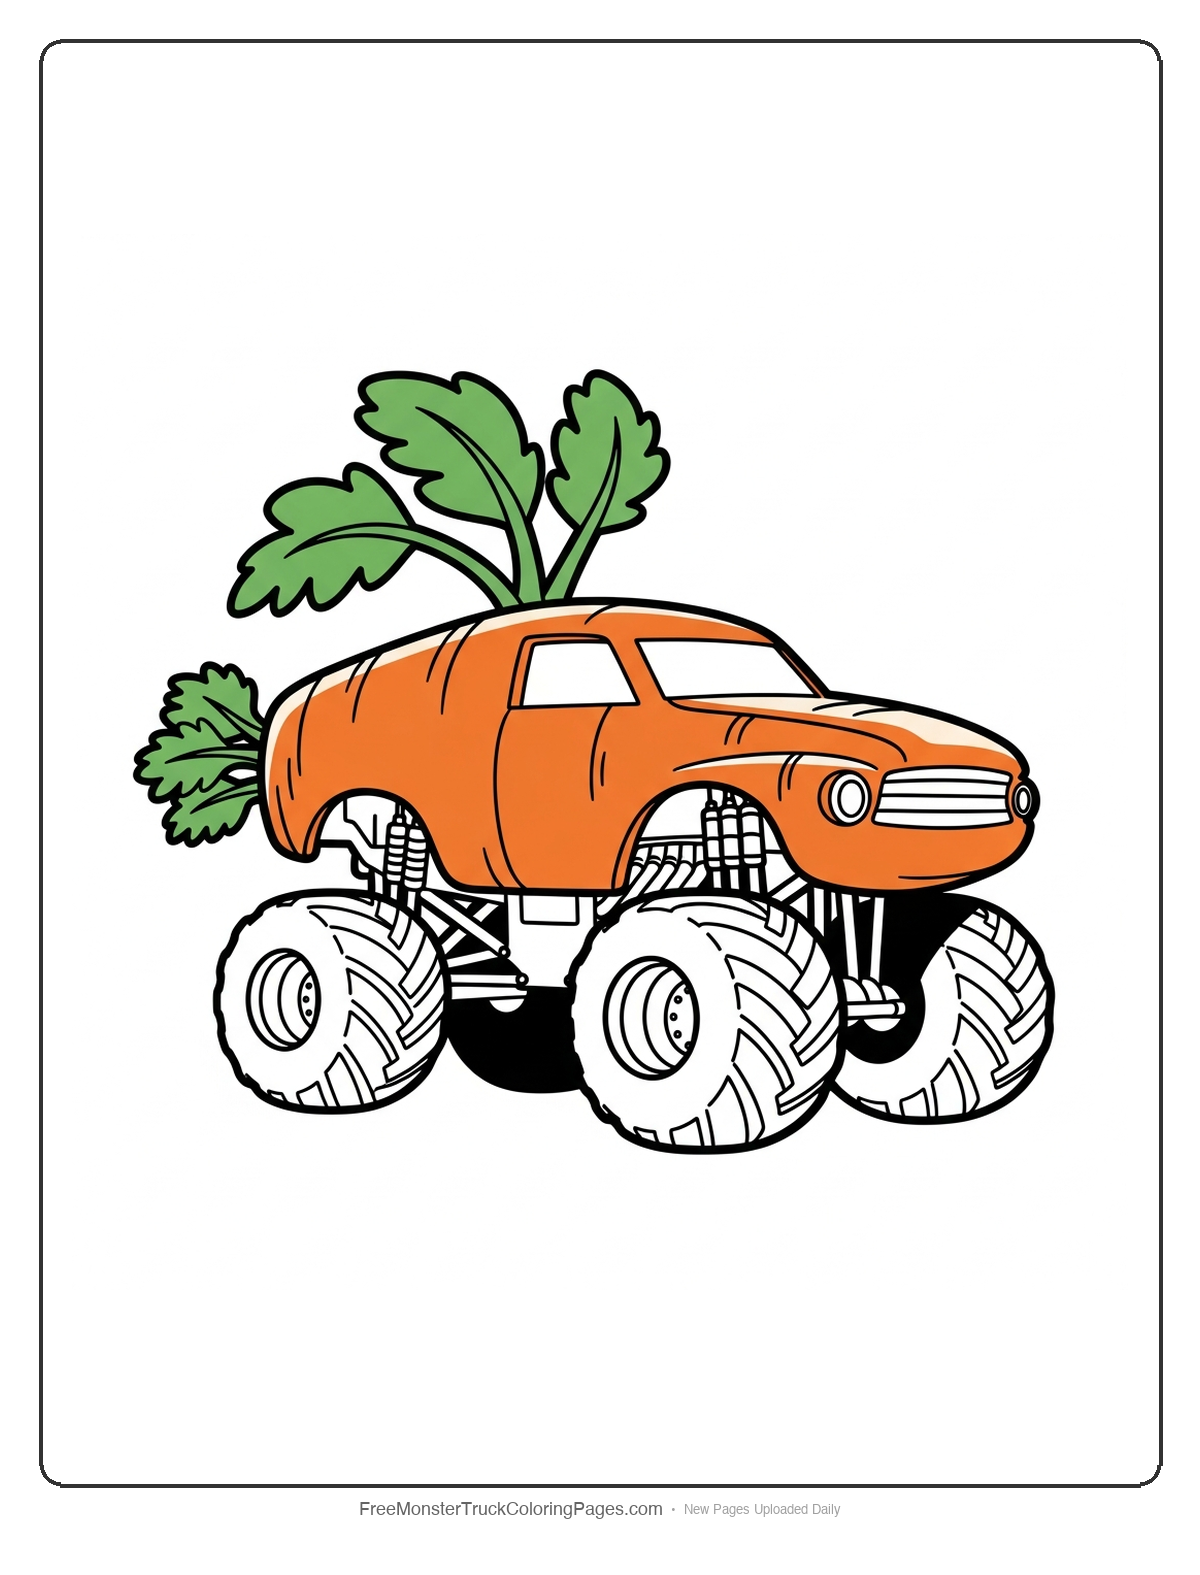
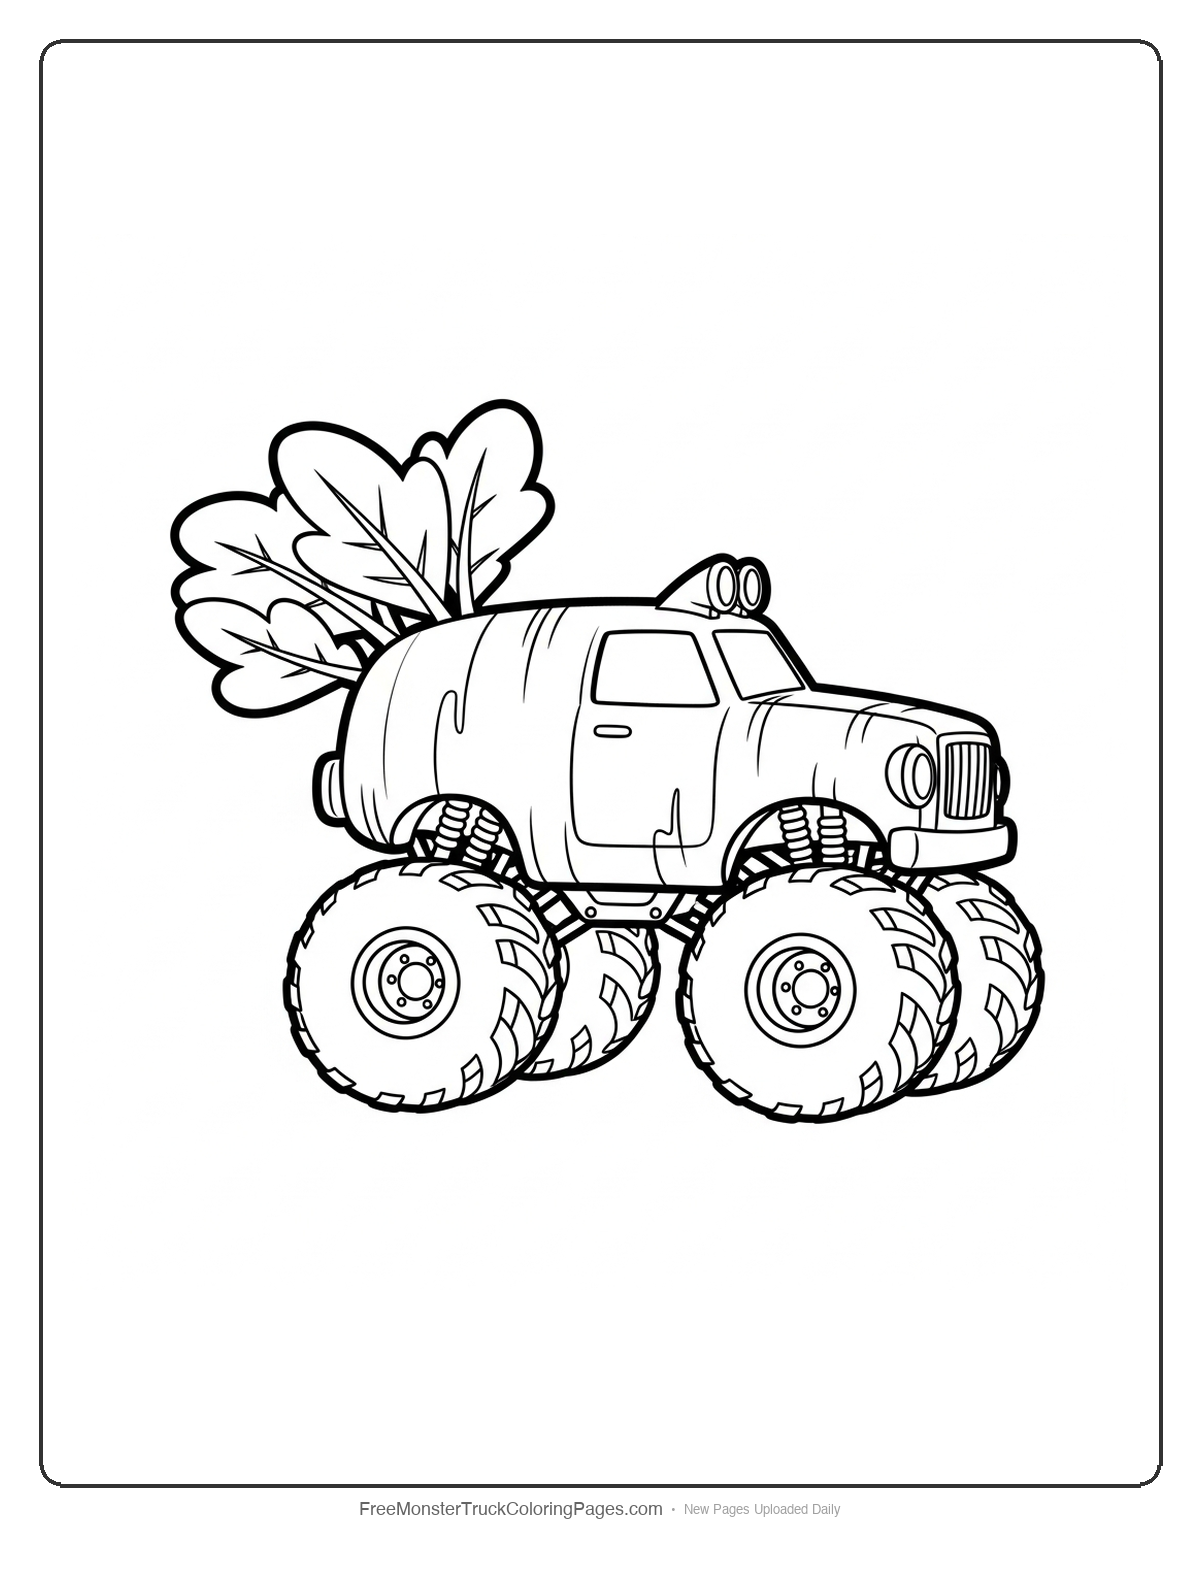
Add color detection QC check, fix colored carrot cruncher image
New QC layer: check-color.py detects if image has color fills.
- Measures pixel saturation across the image
- Fails if >2% of pixels have color (saturation > 30)
- Integrated into autopilot QC loop: color = regenerate
- Updated Imagen base prompt: "NO COLOR, NO colored fills, strictly black outlines"
- Regenerated carrot cruncher as proper B&W line art

Changed region(s): [[0.0925, 0.2178, 0.8942, 0.7467]]

diff --git a/src/lib/autopilot.ts b/src/lib/autopilot.ts
@@ -281,7 +281,7 @@ function getUpcomingHolidays(now: Date): string {
 // =====================================================
 
 const BASE_IMAGEN_PROMPT =
-  "Black and white line art, coloring book style for young children ages 2-8, bold thick clean outlines only, simple shapes, NO shading, NO gray fill, NO complex backgrounds, NO crowds, NO tiny details, NO text in image, white background. The complete subject should be fully visible in the image.";
+  "Black and white line art ONLY, coloring book style for young children ages 2-8, bold thick clean outlines only, simple shapes, NO COLOR, NO shading, NO gray fill, NO colored fills, strictly black outlines on white background, NO complex backgrounds, NO crowds, NO tiny details, NO text in image. The complete subject should be fully visible in the image.";
 
 async function generateImage(prompt: string): Promise<Buffer> {
   const fullPrompt = `${prompt} ${BASE_IMAGEN_PROMPT}`;
@@ -376,6 +376,21 @@ function applyFrame(imagePath: string) {
     });
   } catch (err) {
     console.log(`[autopilot] Frame failed: ${err}`);
+  }
+}
+
+function checkBlackAndWhite(imagePath: string): boolean {
+  const colorScript = path.join(process.cwd(), "scripts", "check-color.py");
+  try {
+    const result = execSync(`python3 "${colorScript}" "${imagePath}"`, {
+      encoding: "utf-8",
+      timeout: 15000,
+    }).trim();
+    console.log(`[autopilot] Color check: ${result}`);
+    return result.startsWith("PASS");
+  } catch {
+    console.log("[autopilot] Color check FAIL: image has color, must regenerate");
+    return false;
   }
 }
 
@@ -517,7 +532,15 @@ export async function runDailyPipeline(
         console.log(
           `[autopilot]   QC attempt ${attempts}: ${qc.score}/10 ${qc.pass ? "PASS" : "FAIL"}`
         );
-        if (qc.pass) qcPassed = true;
+        if (qc.pass) {
+          // Check for color — coloring pages must be black and white only
+          const isBW = checkBlackAndWhite(imagePath);
+          if (isBW) {
+            qcPassed = true;
+          } else {
+            console.log("[autopilot]   Image has color, regenerating...");
+          }
+        }
       } catch (err) {
         console.log(`[autopilot]   QC error: ${err}`);
       }

diff --git a/scripts/check-color.py b/scripts/check-color.py
@@ -1,0 +1,52 @@
+"""
+Detect if an image has color (not black and white).
+Coloring pages must be black and white line art only.
+
+Exit code 0 = PASS (black and white)
+Exit code 1 = FAIL (has color)
+
+Usage: python3 scripts/check-color.py image.png
+"""
+import sys
+from PIL import Image
+
+COLOR_THRESHOLD = 30  # Max saturation for "grayscale" pixels
+MAX_COLOR_RATIO = 0.02  # If more than 2% of pixels have color, it fails
+
+
+def check_color(img_path):
+    img = Image.open(img_path).convert("RGB")
+    w, h = img.size
+
+    # Downscale for speed
+    scale = 300 / max(w, h)
+    img = img.resize((int(w * scale), int(h * scale)))
+
+    pixels = list(img.getdata())
+    colored = 0
+
+    for r, g, b in pixels:
+        # Check saturation: if R, G, B values are far apart, it's colored
+        max_c = max(r, g, b)
+        min_c = min(r, g, b)
+        saturation = max_c - min_c
+        if saturation > COLOR_THRESHOLD:
+            colored += 1
+
+    ratio = colored / len(pixels)
+    return ratio, ratio > MAX_COLOR_RATIO
+
+
+if __name__ == "__main__":
+    if len(sys.argv) < 2:
+        print("Usage: python3 check-color.py <image.png>")
+        sys.exit(2)
+
+    ratio, has_color = check_color(sys.argv[1])
+
+    if has_color:
+        print(f"FAIL:color:{ratio*100:.1f}% of pixels are colored")
+        sys.exit(1)
+    else:
+        print(f"PASS:bw:{ratio*100:.1f}% colored (within tolerance)")
+        sys.exit(0)
